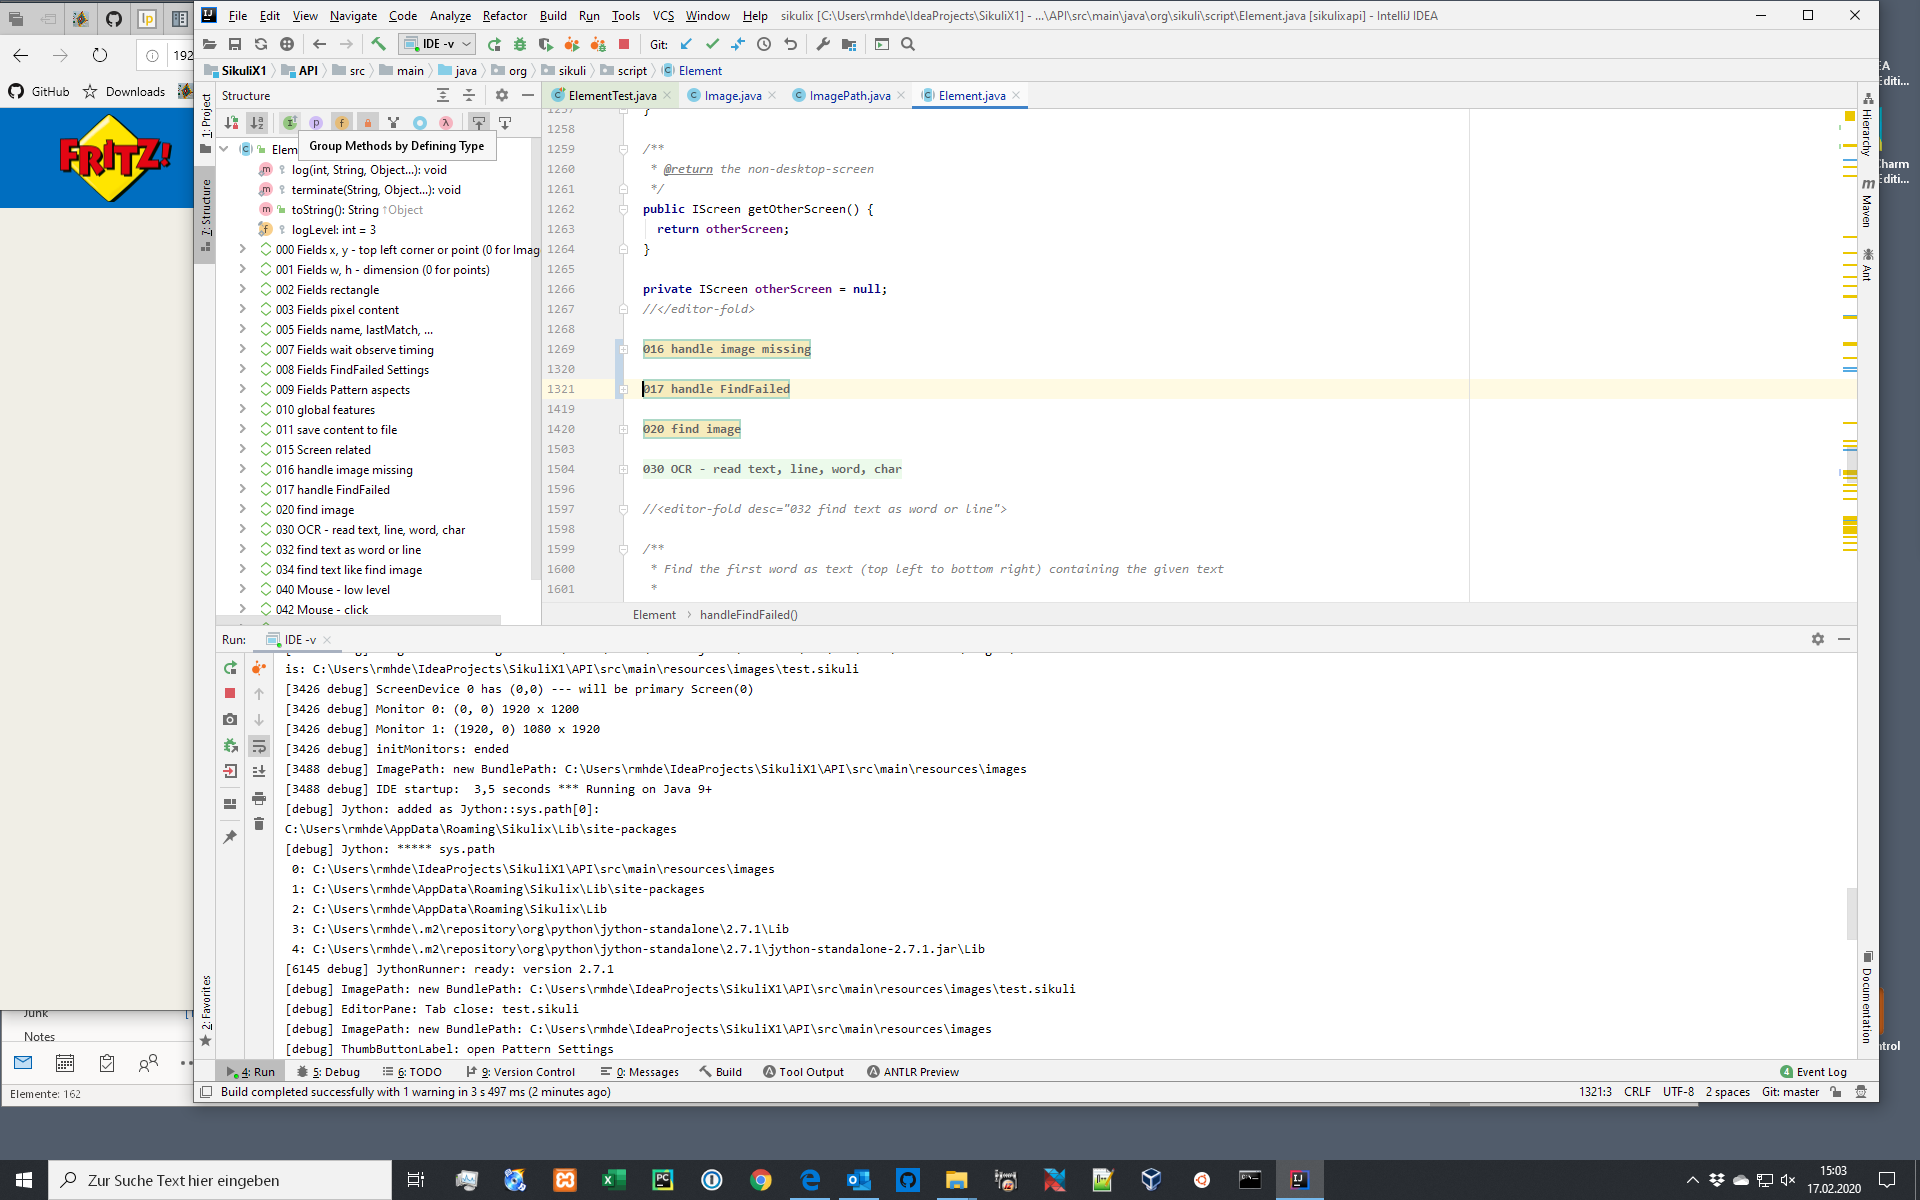
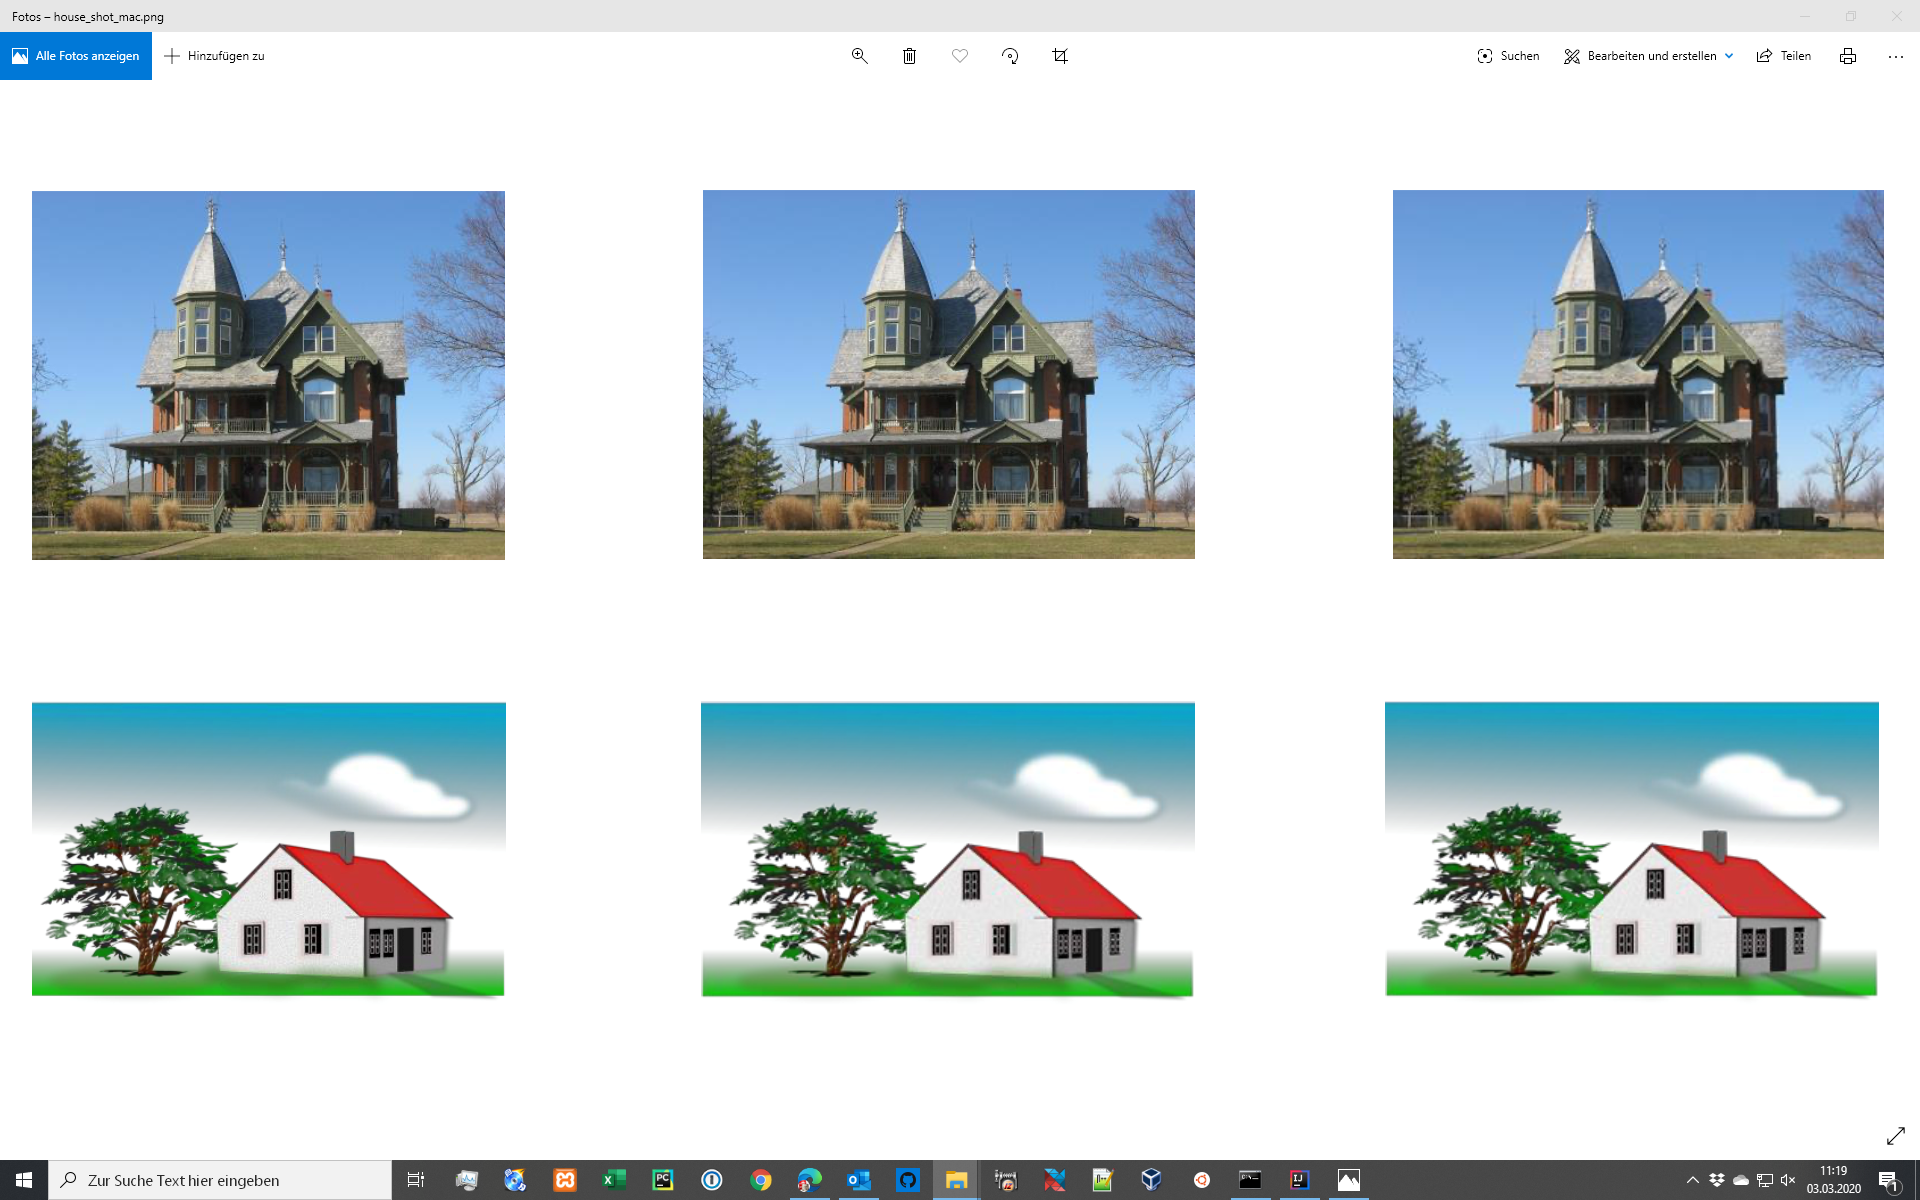
ongoing: auto-resize [ci skip]

diff --git a/API/src/main/resources/images/test.sikuli/test.py b/API/src/main/resources/images/test.sikuli/test.py
@@ -1,16 +1,5 @@
+"house1_mac.png"
 img = "img.png"
-
-match = find(img)
-match.highlight(2)
-exit()
-
-img = r"C:\Users\rmhde\IdeaProjects\SikuliX1\API\src\main\resources\images\_backUp\test"
-
-simg = SCREEN.cmdCapture(SCREEN)
-print "capture:", simg
-finder = Finder(simg, Region(0,0,1,1))
-finder.find(img)
-if finder.hasNext():
-  finder.next().highlight(2)
-
-pattern = Pattern("pattern.png").exact().targetOffset(49,38)
+print find(img)
+imgSmall = "imgSmall.png" 
+print find(imgSmall)